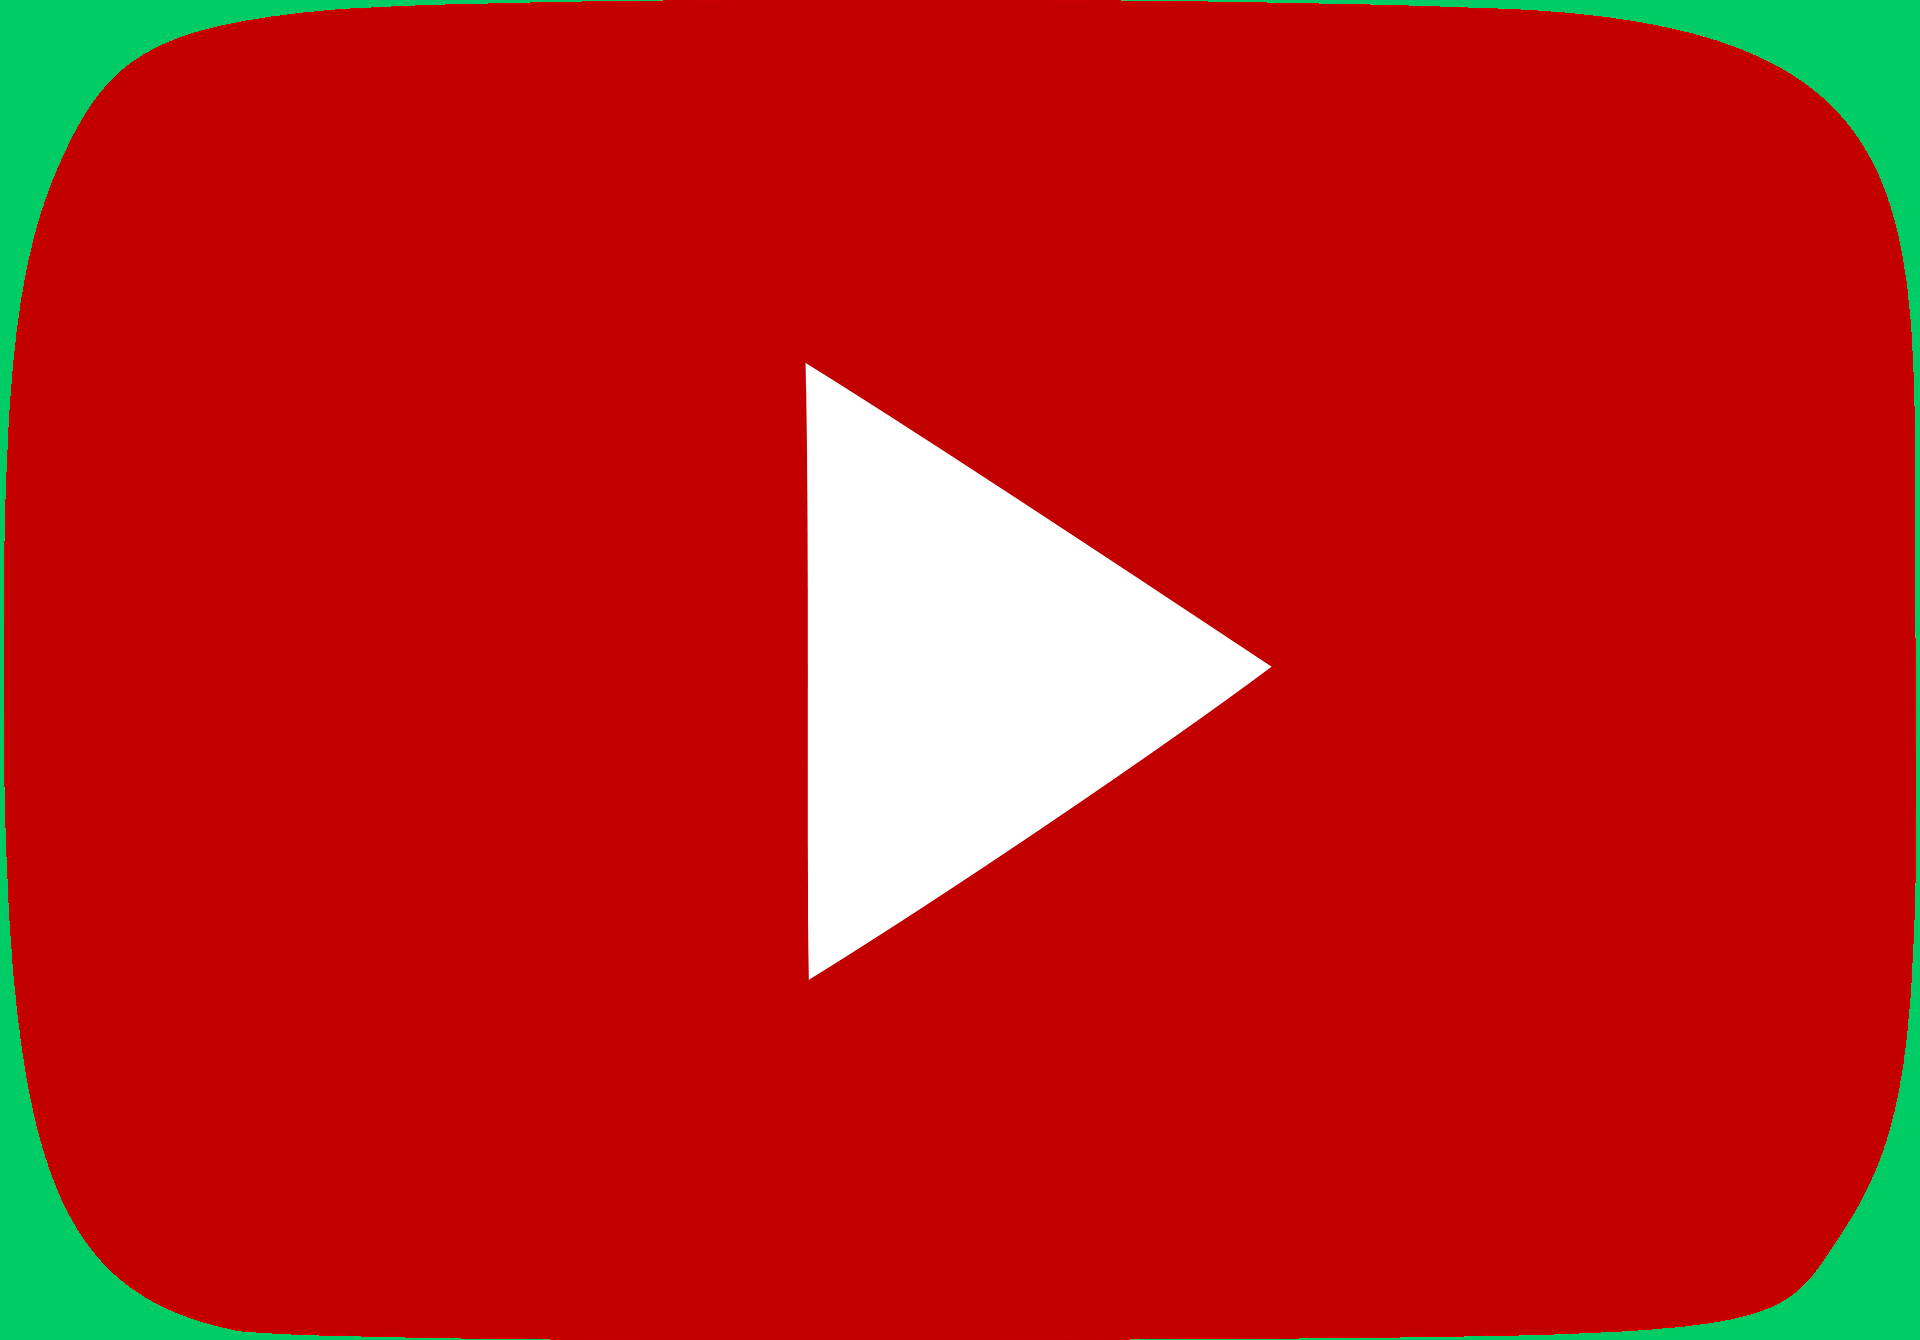
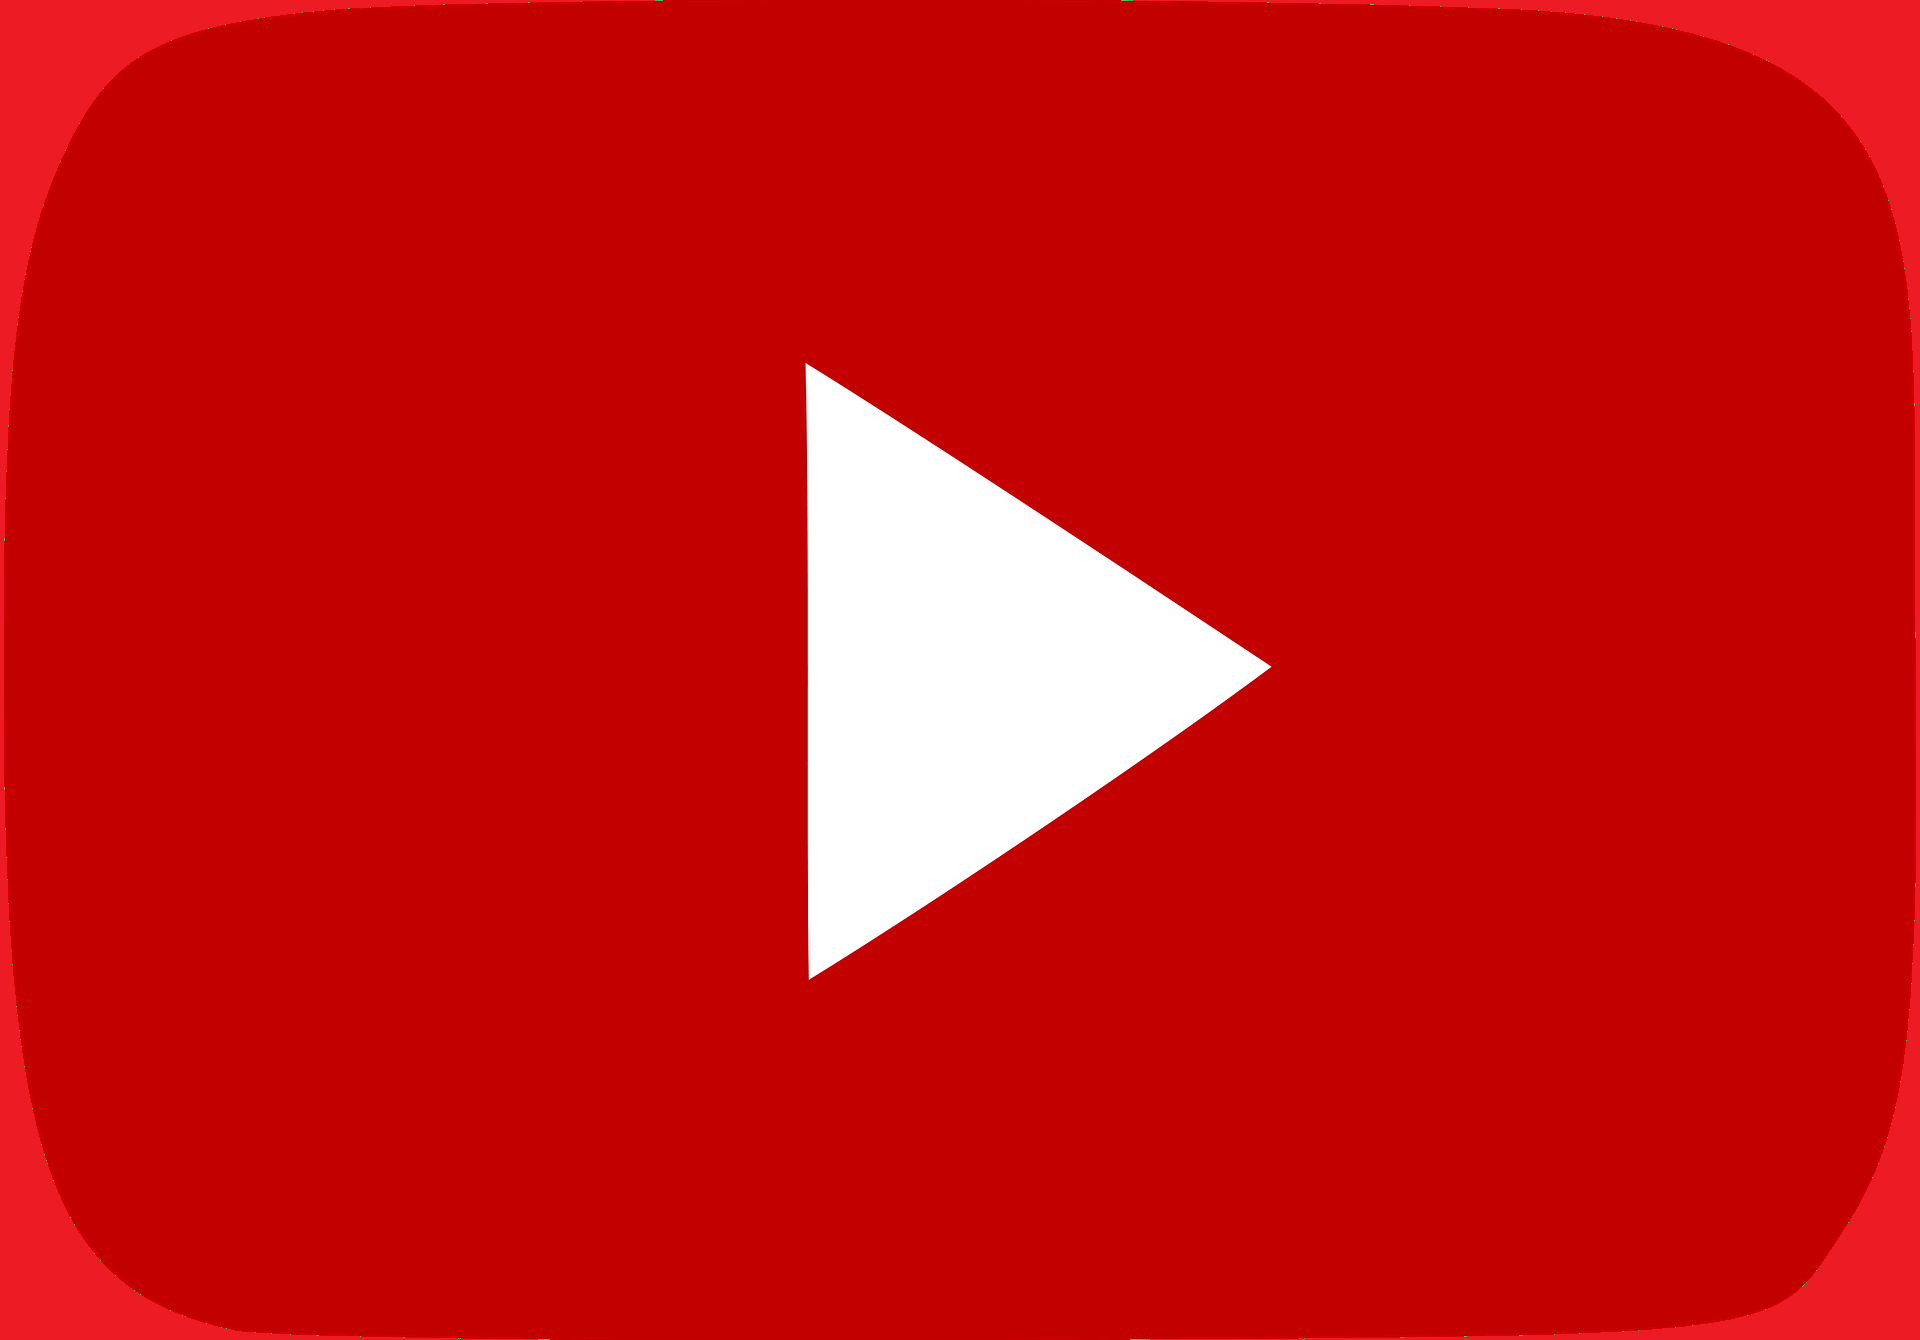
New stylisation

diff --git a/src/app/views/main/main.component.html b/src/app/views/main/main.component.html
@@ -1,6 +1,46 @@
+<div id="carouselExampleIndicators" class="carousel slide" data-ride="carousel">
+  <ol class="carousel-indicators">
+    <li data-target="#carouselExampleIndicators" data-slide-to="0" class="active"></li>
+    <li data-target="#carouselExampleIndicators" data-slide-to="1"></li>
+    <li data-target="#carouselExampleIndicators" data-slide-to="2"></li>
+  </ol>
+  <div class="carousel-inner">
+    <div class="carousel-item active">
+      <img class="d-block w-100" src="assets/img/warsaw.jpg" alt="First slide">
+        <div class="carousel-caption d-none d-md-block">
+        <h3>Szukając rozwiązania dla Polski</h3>
+        <p class="text"><a class="text" routerLink="/show/0">W idei Międzymorza skupia w sobie większość kwestii, które spędzają sen z powiek rozsądnym Polakom (a także Ukraińcom, Czechom, Rumunom czy Chorwatom).
+          Radosław Pyffel, najbardziej znany w Polsce ekspert od.</a></p>
+        </div>
+    </div>
+    <div class="carousel-item">
+      <img class="d-block w-100" src="assets/img/trump.jpg" alt="Second slide">
+      <div class="carousel-caption d-none d-md-block">
+        <h3>Wybory w USA a Międzymorze</h3>
+        <p><a class="text" routerLink="/show/1">W umysłach części polskiej młodzieży zagnieździły się złe idee pochodzenia zewnętrznego. 
+          Czas więc stworzyć idee własną aby wypchnąć te zewnętrzne.</a></p>
+        </div>
+    </div>
+    <div class="carousel-item">
+      <img class="d-block w-100" src="assets/img/EC.jpg" alt="Third slide">
+      <div class="carousel-caption d-none d-md-block">
+        <h3>Międzymorze w Europie</h3>
+        <p><a class="text" routerLink="/show/1">Coraz większą popularność zaczyna zdobywać sobie identytaryzm. Nic więc dziwnego, jest on prawidłową reakcją.</a></p>
+        </div>
+    </div>
+  </div>
+  <a class="carousel-control-prev" href="#carouselExampleIndicators" role="button" data-slide="prev">
+    <span class="carousel-control-prev-icon" aria-hidden="true"></span>
+    <span class="sr-only">Previous</span>
+  </a>
+  <a class="carousel-control-next" href="#carouselExampleIndicators" role="button" data-slide="next">
+    <span class="carousel-control-next-icon" aria-hidden="true"></span>
+    <span class="sr-only">Next</span>
+  </a>
+</div>
 <div class="card-deck">
   <div class="card">
-     <img class="card-img-top" src="assets/img/trojmorze.jpg" height="350" alt="Card image cap">
+     <img class="card-img-top" src="https://cdn.pixabay.com/photo/2018/06/09/18/00/cialis-3464838_1280.jpg" height="350" alt="Card image cap">
      <div class="card-body">
          <h5 class="card-title">Szukając rozwiązania dla Polski</h5>
            <p class="card-text">W idei Międzymorza skupia w sobie większość kwestii, które spędzają sen z powiek rozsądnym Polakom (a także Ukraińcom, Czechom, Rumunom czy Chorwatom).
@@ -9,7 +49,7 @@
   </div>
 </div>
   <div class="card">
-    <img class="card-img-top" src="assets/img/trojm-nieb.jpg" height="350" alt="Card image cap">
+    <img class="card-img-top" src="https://cdn.pixabay.com/photo/2012/11/28/10/34/rocket-launch-67643_1280.jpg" height="350" alt="Card image cap">
        <div class="card-body">
        <h5 class="card-title">Międzymorze jako droga do identytaryzmu ekonomicznego</h5>
         <p class="card-text">Coraz większą popularność zaczyna zdobywać sobie identytaryzm. Nic więc dziwnego, jest on prawidłową reakcją....</p>
@@ -17,11 +57,12 @@
       </div>
     </div>
     <div class="card">
-      <img class="card-img-top" src="assets/img/trojmorze.jpg" height="350" alt="Card image cap">
+      <img class="card-img-top" src="https://cdn.pixabay.com/photo/2020/12/17/00/43/skyscrapers-5838029_1280.jpg" height="350" alt="Card image cap">
       <div class="card-body">
           <h5 class="card-title">Czas zacząć myśleć samodzielnie. Najlepiej razem</h5>
             <p class="card-text">W umysłach części polskiej młodzieży zagnieździły się złe idee pochodzenia zewnętrznego. 
               Czas więc stworzyć idee własną aby wypchnąć te zewnętrzne....</p>
-        <a routerLink="/articles" class="btn btn-primary">Czytaj więcej</a>
+        <a routerLink="/show/2" class="btn btn-primary">Czytaj więcej</a>
    </div>
 </div>
+<br>

diff --git a/src/app/core/navbar/navbar.component.html b/src/app/core/navbar/navbar.component.html
@@ -1,9 +1,9 @@
-<nav class="navbar navbar-expand-sm navbar-dark" style="background-color: #00CC66;">
+<nav class="navbar navbar-expand-sm navbar-dark" style="background-color: #ff0000;">
     <a class="navbar-brand" 
     [routerLink]="['/main']"
     [routerLinkActive]="'active'"
     >
-      <img src="assets/img/logo.jpg" width="50" height="50" alt="Miedzymorze"></a>
+      <img src="assets/img/logo3.png" width="50" height="50" alt="Miedzymorze"></a>
     <ul class="navbar-nav mr-auto">
       <li class="nav-item">
         <a class="nav-link active"
@@ -36,18 +36,20 @@
         <a class="nav-link">Kontakt</a>
       </li>
     </ul>
-    <a class="sm-brand" target="_blank" href="https://www.youtube.com/channel/UCE9A5DjHjBPYdcPefrClxrw">
-      <img src="assets/img/yt.png" width="40" height="40" alt="Miedzymorze">
-    </a>
-    <a class="sm-brand">
-      <img src="assets/img/fb.png" width="40" height="40" alt="Miedzymorze">
-    </a>
-    <a class="sm-brand">
-      <img src="assets/img/tt.png" width="40" height="40" alt="Miedzymorze">
-    </a>
+    
     <form class="form-inline">
       <input class="form-control mr-sm-2" type="search" placeholder="Search" aria-label="Search">
       <button class="btn btn-outline-success my-2 my-sm-0" type="submit"><img src="assets/img/search.png" width="20" height="20" alt="Miedzymorze"></button>
     </form>
+    <div class="dropdown">
+      <button class="btn btn-secondary dropdown-toggle" type="button" id="dropdownMenuButton" data-toggle="dropdown" aria-haspopup="true" aria-expanded="false">
+        <img src="assets/img/dropdown.png" width="40" height="40" alt="Miedzymorze">
+      </button>
+      <div class="dropdown-menu" aria-labelledby="dropdownMenuButton">
+        <a class="dropdown-item" target="_blank" href="https://www.youtube.com/channel/UCE9A5DjHjBPYdcPefrClxrw"><img src="assets/img/yt.png" width="40" height="40" alt="Miedzymorze"></a>
+        <a class="dropdown-item" target="_blank" href="https://www.facebook.com/intermarism"><img src="assets/img/fb.png" width="40" height="40" alt="Miedzymorze"></a>
+        <a class="dropdown-item" href="#"><img src="assets/img/tt.png" width="40" height="40" alt="Miedzymorze"></a>
+      </div>
+    </div>
   </nav>
 

diff --git a/src/app/views/articles/articles.component.html b/src/app/views/articles/articles.component.html
@@ -6,3 +6,20 @@
     <a routerLink="/show/{{ article.id }}" class="btn btn-primary">Czytaj więcej</a>
   </div>
 </div>
+<ul class="pagination">
+  <li class="page-item">
+    <a class="page-link" href="#" aria-label="Previous">
+      <span aria-hidden="true">&laquo;</span>
+      <span class="sr-only">Previous</span>
+    </a>
+  </li>
+  <li class="page-item"><a class="page-link" href="#">1</a></li>
+  <li class="page-item"><a class="page-link" href="#">2</a></li>
+  <li class="page-item"><a class="page-link" href="#">3</a></li>
+  <li class="page-item">
+    <a class="page-link" href="#" aria-label="Next">
+      <span aria-hidden="true">&raquo;</span>
+      <span class="sr-only">Next</span>
+    </a>
+  </li>
+</ul>

diff --git a/src/app/views/main/main.component.scss b/src/app/views/main/main.component.scss
@@ -1,4 +1,25 @@
+.carousel {
+    margin-top: 1%;
+    margin-right: 5%;
+    margin-bottom: 1%;
+    margin-left: 5%;
+}
+
+
 .btn-primary {
-    background-color: #00CC66;
-    border-color: #00CC66;
+    background-color: #ff0000;
+    border-color: #ff0000;
+}
+
+
+.card-deck {
+    margin-top: 1%;
+    margin-right: 5%;
+    margin-bottom: 1%;
+    margin-left: 5%;
+}
+
+.text {
+    color: white;
+    text-decoration: none;
 }

diff --git a/src/app/core/navbar/navbar.component.scss b/src/app/core/navbar/navbar.component.scss
@@ -1,3 +1,7 @@
+.navbar {
+    height: 20%;
+}
+
 .sm-brand {
     width: 40px;
     height: 40px;
@@ -10,4 +14,9 @@
 
 .nav-link {
     font-size: 20px;
+}
+
+.btn {
+    background-color: #ff0000;
+    border: #ff0000;
 }
